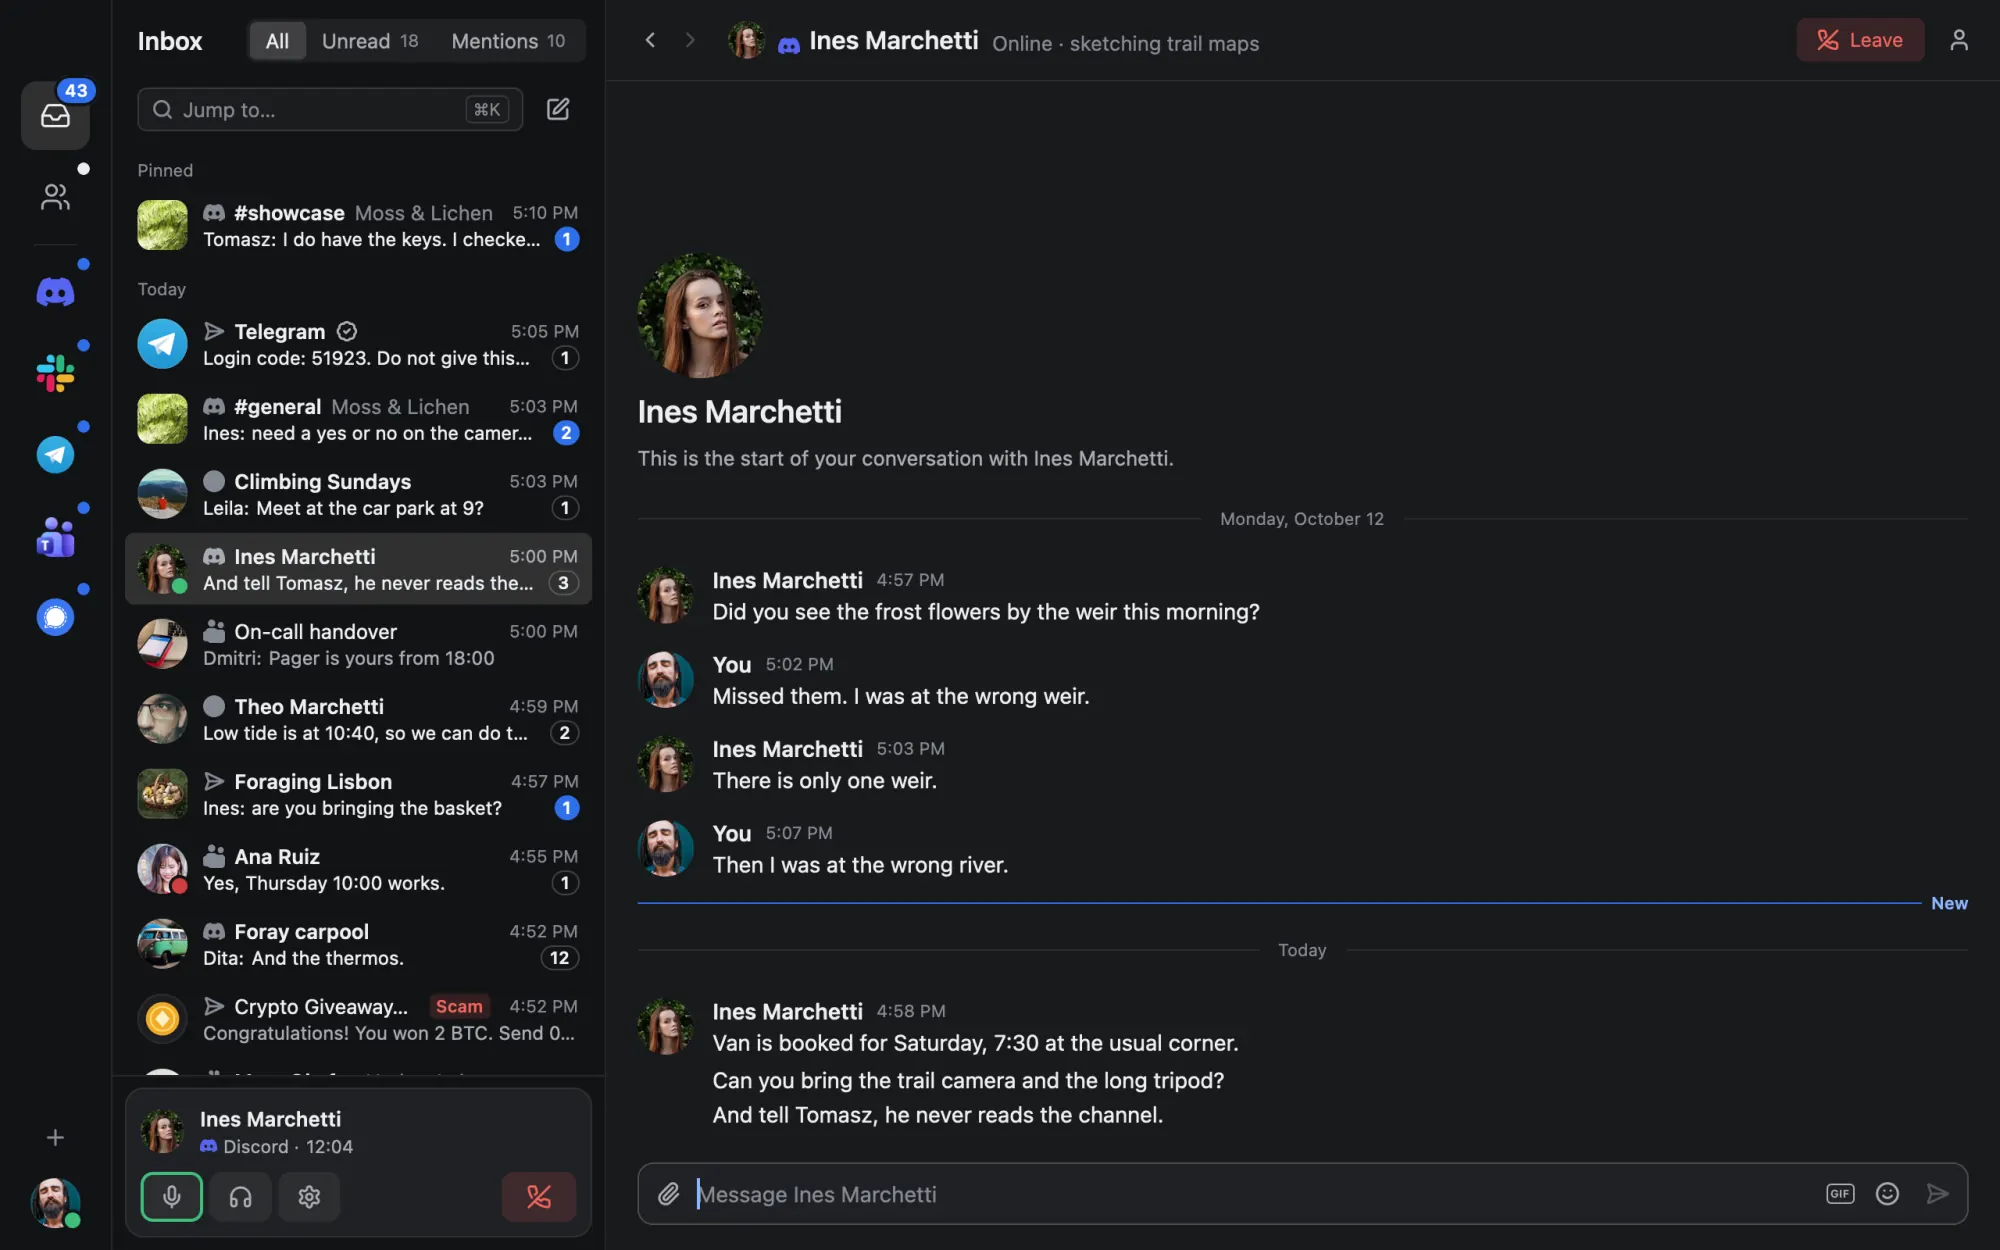
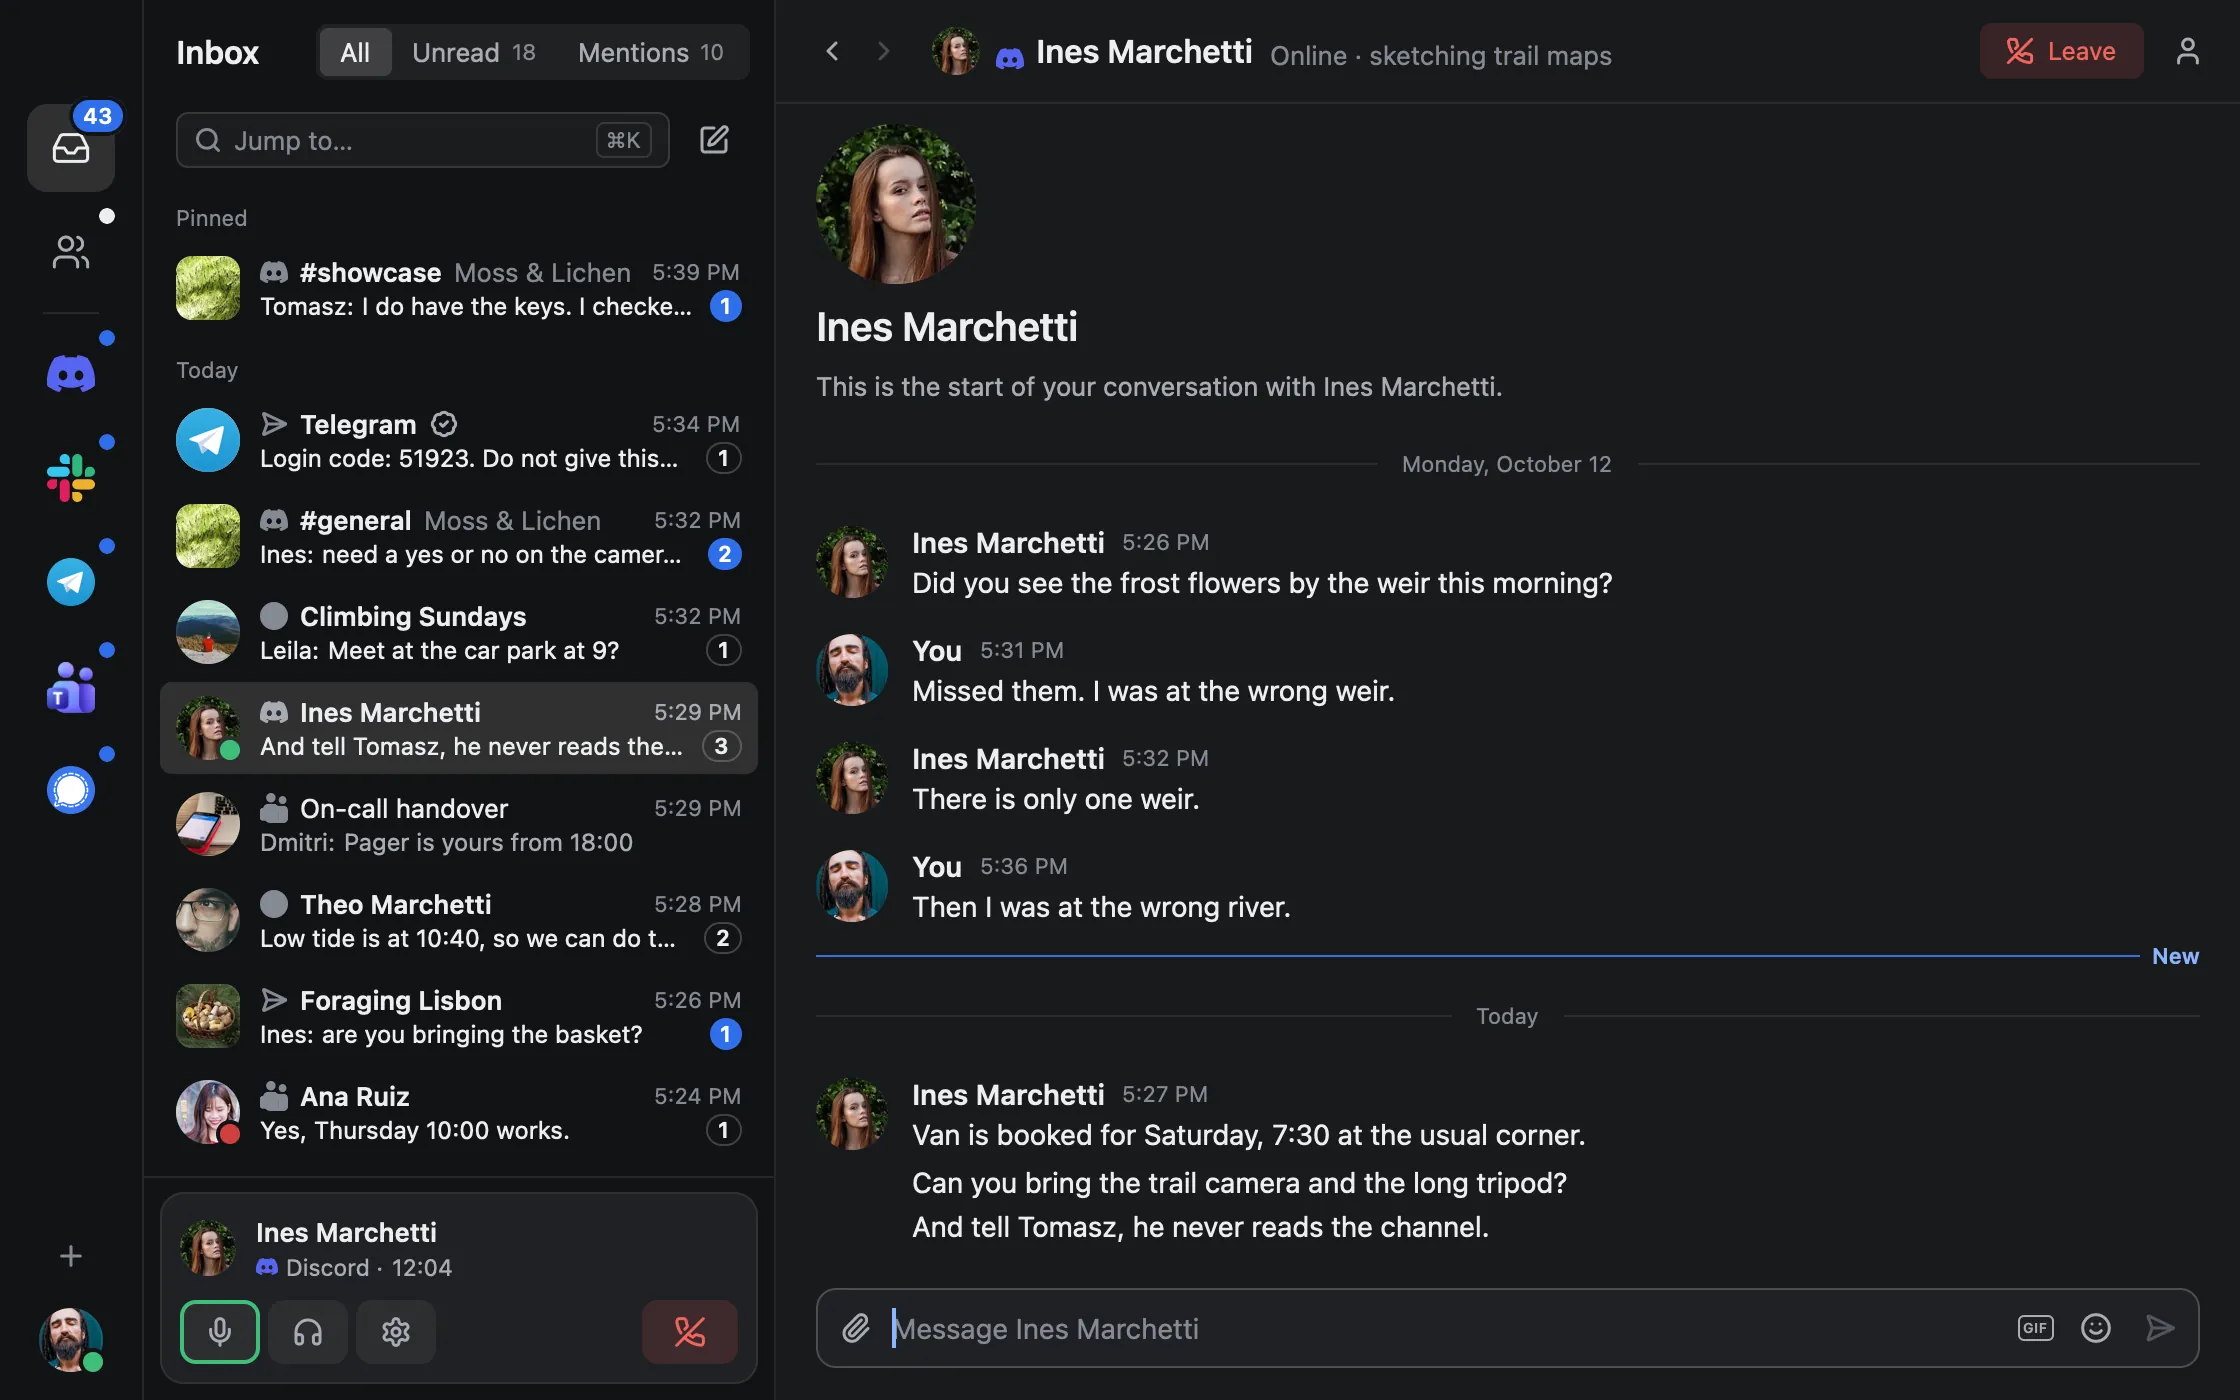
Reshoot the site's screenshots at the app's real size.

diff --git a/site/index.html b/site/index.html
@@ -49,35 +49,35 @@
         <span class="car-lights" aria-hidden="true"><i></i><i></i><i></i></span>
         <div class="car-track" tabindex="0" aria-live="polite" aria-label="Screenshots, scroll sideways for more">
           <figure class="car-slide" id="shot-1" role="group" aria-roledescription="slide" aria-label="1 of 8">
-            <img src="shots/inbox.webp" width="2000" height="1250" alt="tinyclient's unified inbox: conversations from Discord, Telegram, Slack, Microsoft Teams and Signal in one list, with a Discord channel open beside it." fetchpriority="high" decoding="async">
+            <img src="shots/inbox.webp" width="2240" height="1400" alt="tinyclient's unified inbox showing unread conversations from Discord, Telegram, Slack, Microsoft Teams and Signal in one list, with a Discord channel open beside it." fetchpriority="high" decoding="async">
             <figcaption class="car-cap">One inbox for every network</figcaption>
           </figure>
           <figure class="car-slide" id="shot-2" role="group" aria-roledescription="slide" aria-label="2 of 8">
-            <img src="shots/previews.webp" width="2000" height="1250" alt="A Discord channel in tinyclient with two link previews, one with a large photo, and a message with a row of emoji reactions." loading="lazy" decoding="async">
+            <img src="shots/previews.webp" width="2240" height="1400" alt="A Discord channel in tinyclient with a link preview showing a creek photo, and a message with a row of emoji reactions." loading="lazy" decoding="async">
             <figcaption class="car-cap">Link previews, photos and reactions</figcaption>
           </figure>
           <figure class="car-slide" id="shot-3" role="group" aria-roledescription="slide" aria-label="3 of 8">
-            <img src="shots/call.webp" width="2000" height="1250" alt="A Discord voice call in tinyclient: the call bar under the inbox shows who you are talking to, with mute, deafen, settings and hang-up buttons." loading="lazy" decoding="async">
+            <img src="shots/call.webp" width="2240" height="1400" alt="A Discord voice call in tinyclient: the call bar under the inbox shows who you are talking to, with mute, deafen, settings and hang-up buttons." loading="lazy" decoding="async">
             <figcaption class="car-cap">Voice calls on Discord</figcaption>
           </figure>
           <figure class="car-slide" id="shot-4" role="group" aria-roledescription="slide" aria-label="4 of 8">
-            <img src="shots/thread.webp" width="2000" height="1250" alt="A thread open in a side pane next to a Discord channel in tinyclient, beside a bot's report card and a photo." loading="lazy" decoding="async">
+            <img src="shots/thread.webp" width="2240" height="1400" alt="A thread open in a side pane next to a Discord channel in tinyclient, beside a bot's report card and a photo." loading="lazy" decoding="async">
             <figcaption class="car-cap">Threads beside the conversation</figcaption>
           </figure>
           <figure class="car-slide" id="shot-5" role="group" aria-roledescription="slide" aria-label="5 of 8">
-            <img src="shots/slack.webp" width="2000" height="1250" alt="A Slack workspace in tinyclient: channel sections and direct messages on the left, and a channel with a mention and a thread summary." loading="lazy" decoding="async">
+            <img src="shots/slack.webp" width="2240" height="1400" alt="A Slack workspace in tinyclient: channel sections and direct messages on the left, and a channel with a mention and a thread summary." loading="lazy" decoding="async">
             <figcaption class="car-cap">Slack workspaces, sections and threads</figcaption>
           </figure>
           <figure class="car-slide" id="shot-6" role="group" aria-roledescription="slide" aria-label="6 of 8">
-            <img src="shots/telegram.webp" width="2000" height="1250" alt="Telegram in tinyclient: folder tabs, pinned chats, groups and channels on the left, and a group conversation where you are mentioned." loading="lazy" decoding="async">
+            <img src="shots/telegram.webp" width="2240" height="1400" alt="Telegram in tinyclient: folder tabs, pinned chats, groups and channels on the left, and a group conversation where you are mentioned." loading="lazy" decoding="async">
             <figcaption class="car-cap">Telegram folders, groups and channels</figcaption>
           </figure>
           <figure class="car-slide" id="shot-7" role="group" aria-roledescription="slide" aria-label="7 of 8">
-            <img src="shots/signal.webp" width="2000" height="1250" alt="A Signal group in tinyclient with a quoted reply, a mention, an edited message and reactions." loading="lazy" decoding="async">
+            <img src="shots/signal.webp" width="2240" height="1400" alt="A Signal group in tinyclient with a quoted reply, a mention, an edited message and reactions." loading="lazy" decoding="async">
             <figcaption class="car-cap">Signal groups, replies and reactions</figcaption>
           </figure>
           <figure class="car-slide" id="shot-8" role="group" aria-roledescription="slide" aria-label="8 of 8">
-            <img src="shots/reactions.webp" width="2000" height="1250" alt="tinyclient's emoji picker open over a Discord channel, with search, this conversation's custom emoji and every standard emoji." loading="lazy" decoding="async">
+            <img src="shots/reactions.webp" width="2240" height="1400" alt="tinyclient's emoji picker open over a Discord channel, with search, this conversation's custom emoji and every standard emoji." loading="lazy" decoding="async">
             <figcaption class="car-cap">Any emoji, one click away</figcaption>
           </figure>
         </div>
